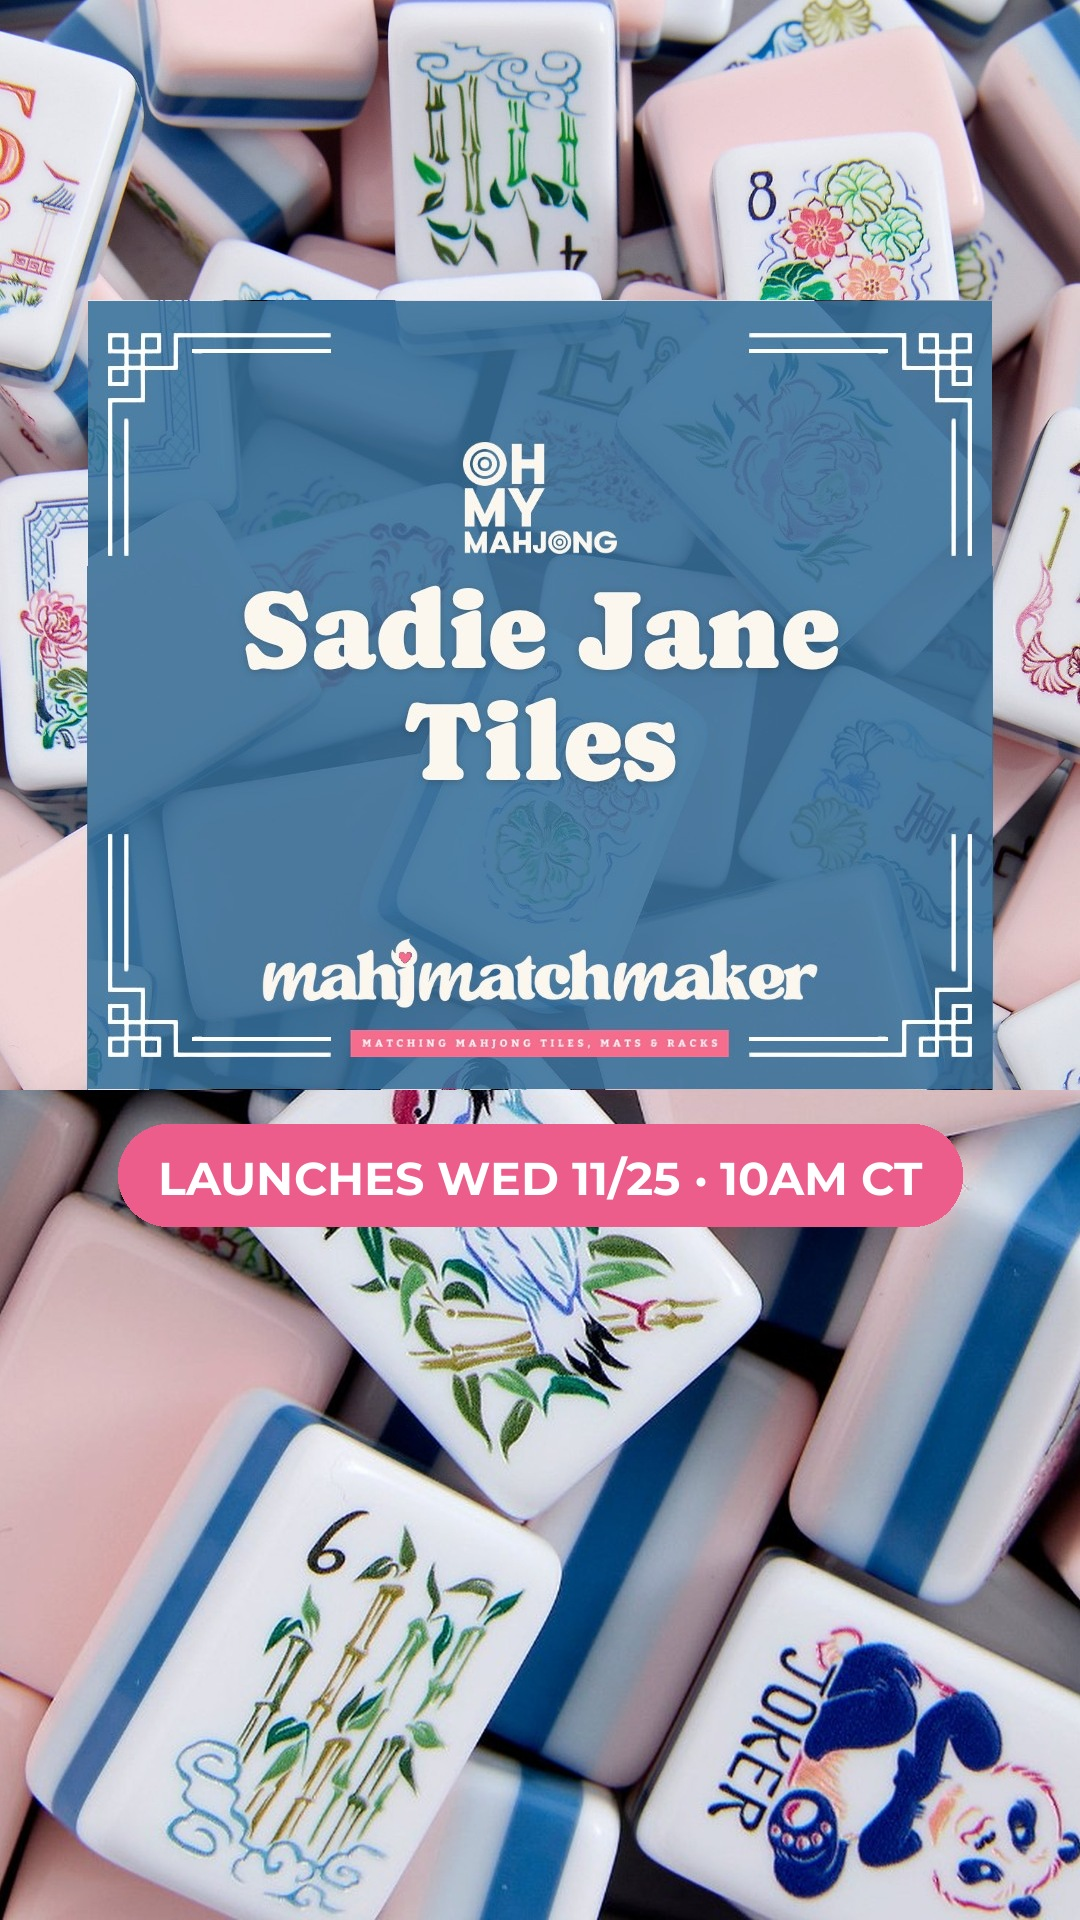
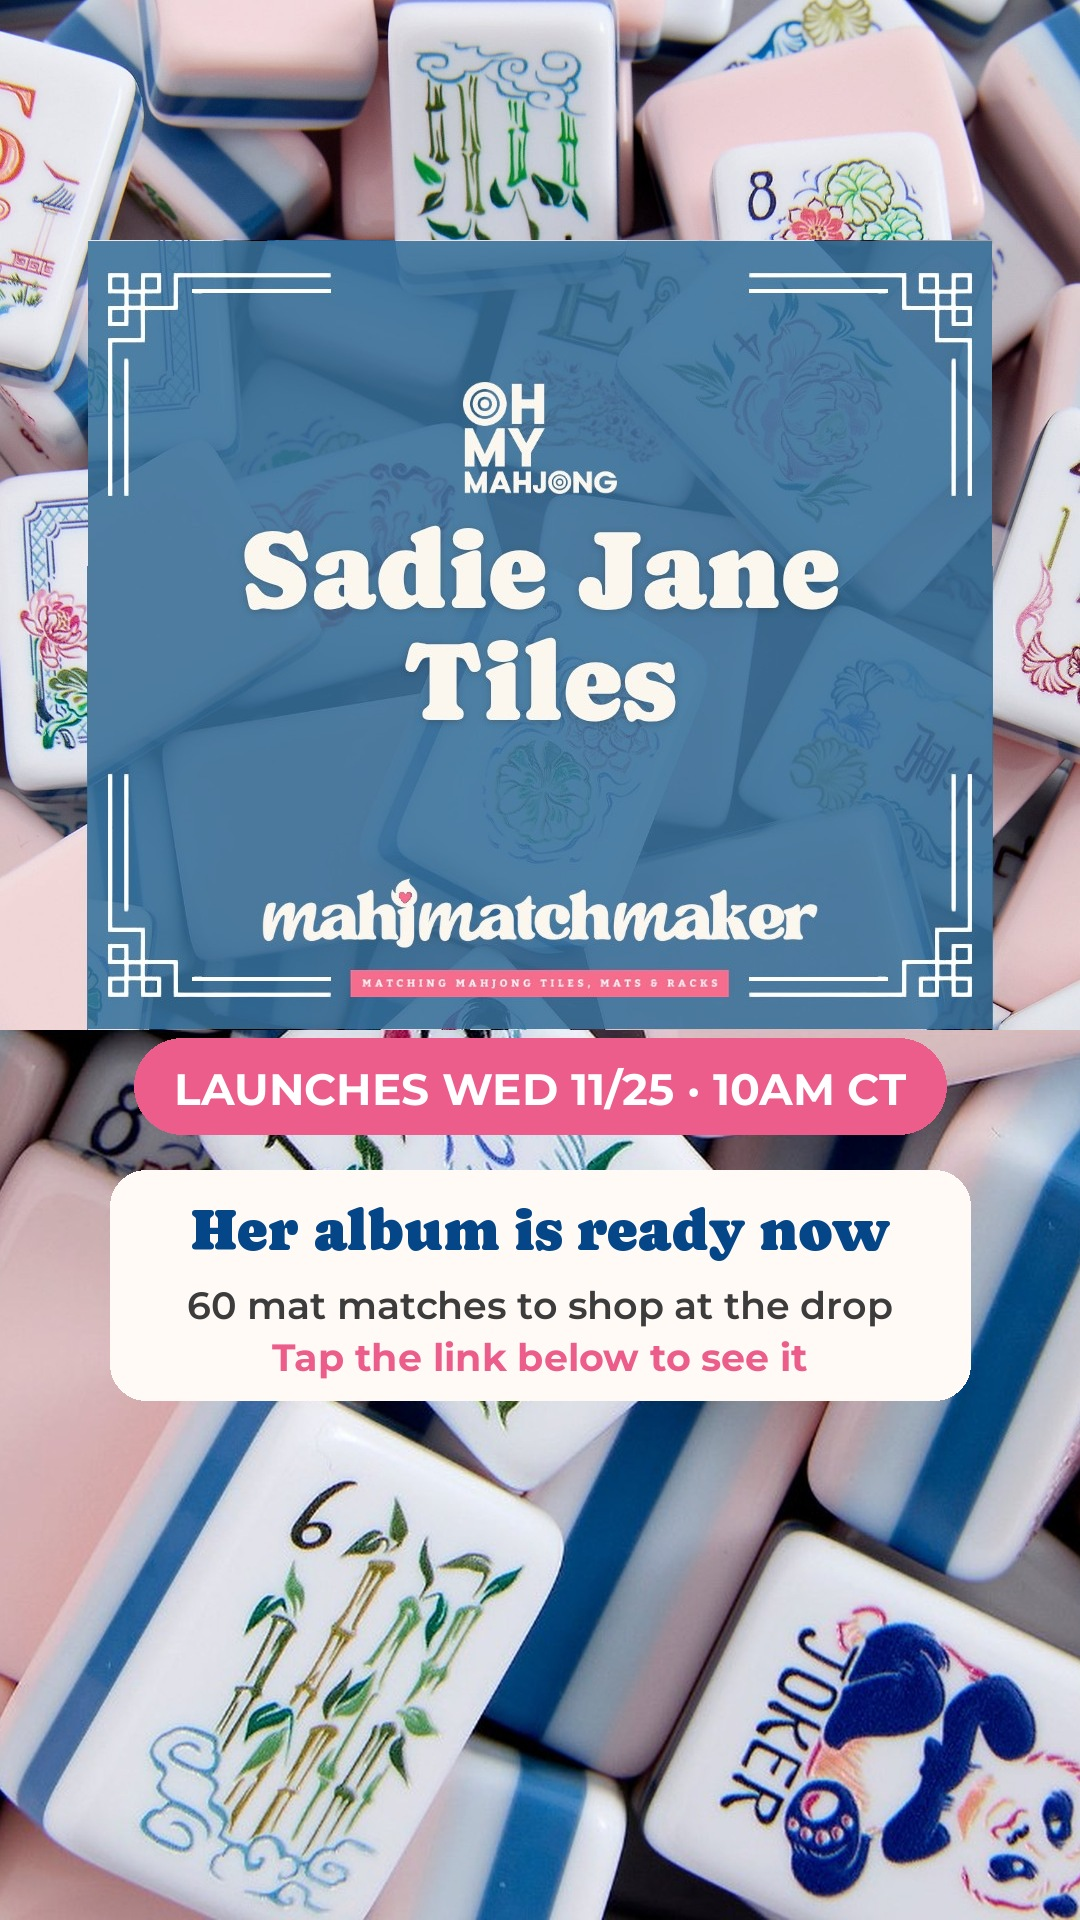
Countdown story v2 with album plug
Claude-Session: https://claude.ai/code/session_01UWZfuwFYQL37EbBDGV2NZF

diff --git a/docs/OVERDUE.md b/docs/OVERDUE.md
@@ -3,7 +3,6 @@
 # Rules: one line per item, "- since YYYY-MM-DD | what | exact next step". Overdue has NO owner: the first chat
 # that can do it does it, then DELETES the line in the same commit. Anything past its day goes here (desk cleanup
 # moves it nightly). Never park, reword or "carry forward" a line here; do it or say exactly what blocks it.
-- [Tue 11/24 BEFORE 9am] Make Sadie Jane album page public (Squarespace, needs Chrome): the group post links it at 9am. Then /links card.
 - since 2026-11-07 | Mahjong Register: code is LIVE since Nov 8 (MAHJMATCH + MAHJMATCHMAKER, 10% excl racks; code-truth + site + codes posts done; follow-up email no longer needed, Nov 9 morning report). REMAINING ONLY: FYM + Mat Gallery pick up the restored /discount/MAHJMATCH auto-apply links at the next release rebuild (commit 42a6ee5e) | Matches & Catalog, next FYM/gallery publish
 - since 2026-11-06 | ManyChat: build the first comment-for-links automation as a DRAFT (not live) in app.manychat.com/fb5908370 (any comment, no keyword; DM per doc 80: thank-you, partner links + MAHJMATCH, button "Shop the rest of the table" = ShopMy collection). Polo table first (blog /blog/holiday-mahjong-table is live). Rudolph + Rattan need a ShopMy collection for the non-partner pieces | Main, in Chrome; live only on her yes
 - since 2026-11-06 | ManyChat trial reminder: day 12 of the Essential trial (started ~Nov 6): tell her how many contacts used it + keep/downgrade/annual | Main (set a scheduled task once the trial start date is confirmed in ManyChat billing)

diff --git a/docs/ANSWERS.md b/docs/ANSWERS.md
@@ -1793,3 +1793,4 @@ Tiffany: tabletop room images look AI, don't want them. Use the clean flat/aeria
 - 2026-11-24 12:40am DONE (Main): Sadie Jane album page already loads signed-out (WebFetch check) = public for the 9am group post.
 - 2026-11-24 12:40-12:41am Tiffany (STANDING): reels are always hers (she adds the music); every reel sits on the HQ Social tab with full caption + notes (song etc.); Claude never SCHEDULES a reel. For Sadie Jane she also wants a Planoly DRAFT as redundancy (IG, collab @ohmymahjong, cover set, same caption): done (group 01a20c12-aaf7). HQ posts/2026-11-25-sadie-jane-reel caption moved to "we", note carries Pink Pony Club + collab invite.
 - 2026-11-24 12:44am DONE (Main): FYM round-2 preview pasted on /find-your-mat-ch-preview, pin da1d699 (was cb09d43), live DOM verified.
+- 2026-11-24 12:41am Tiffany: countdown story must plug the album (it's ready now). v2: 'Her album is ready now / 60 mat matches / tap the link below' + link sticker note; Planoly reminder Tue 9:45am + HQ Social item.
